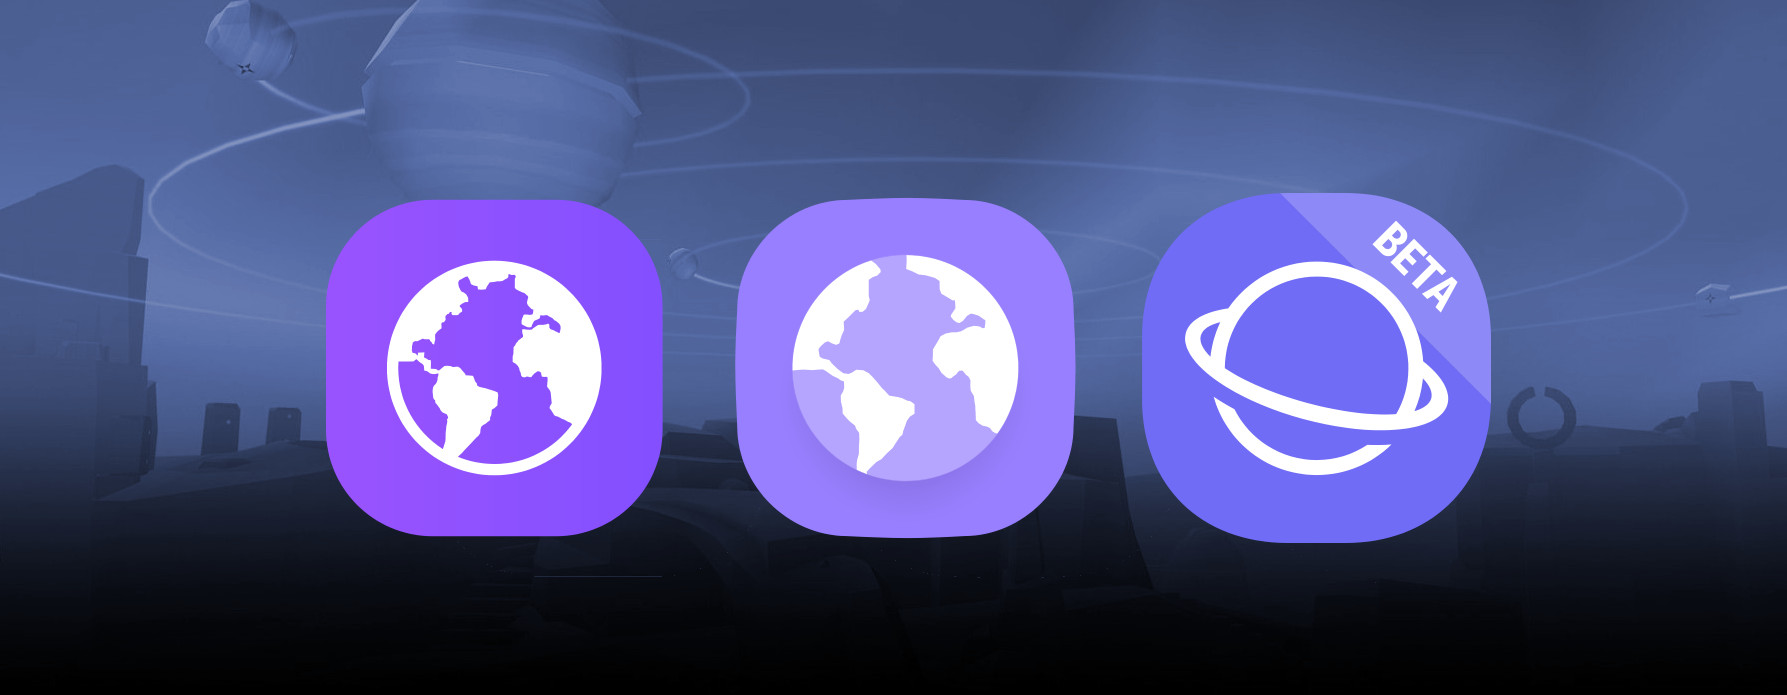
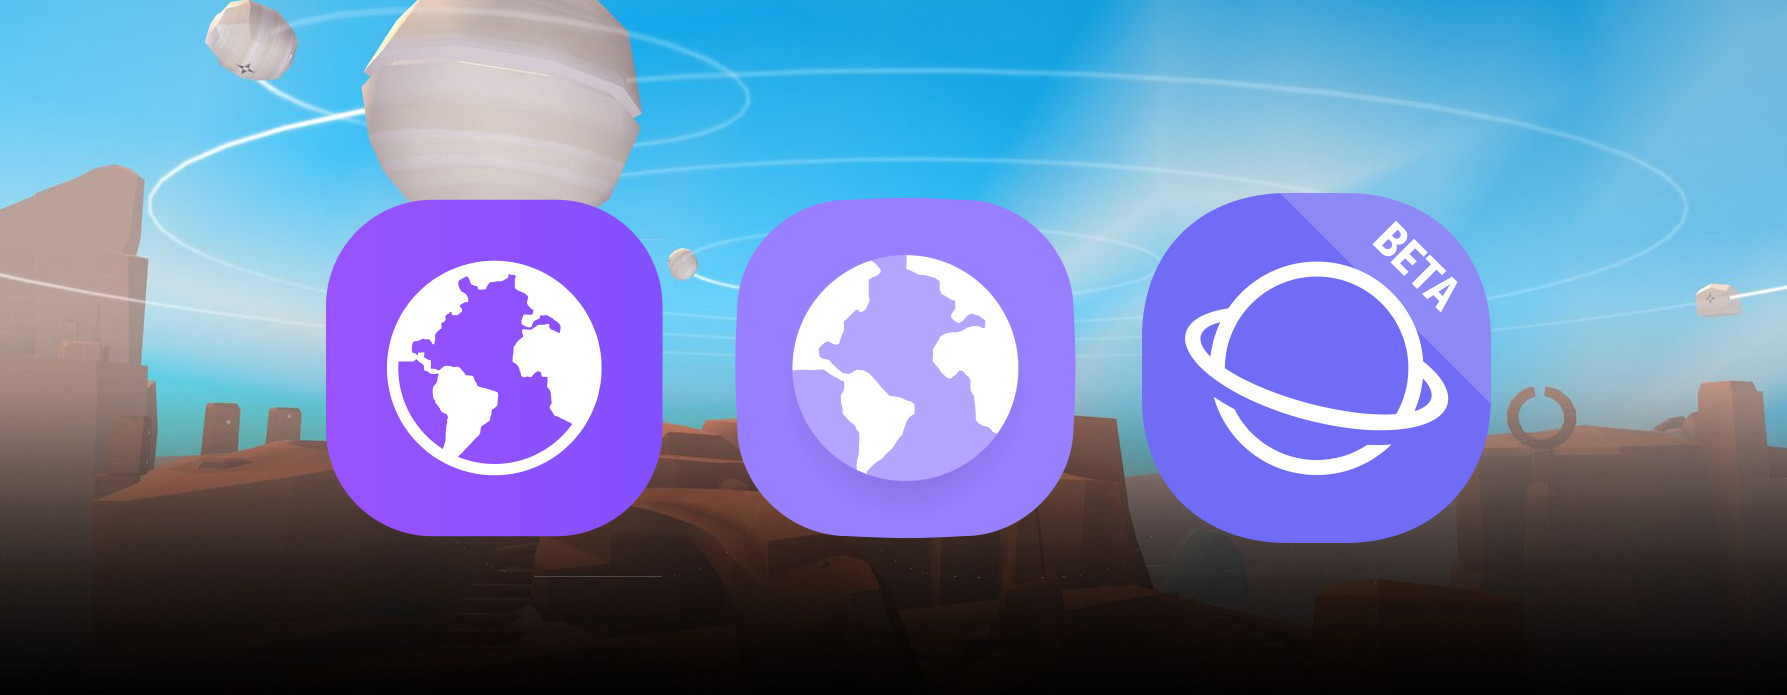
Change header image again

diff --git a/_posts/2017-03-07-samsung-internet-beta-open.md b/_posts/2017-03-07-samsung-internet-beta-open.md
@@ -3,7 +3,7 @@ title: "Samsung Internet Beta now available without sign up"
 short_desc: "Samsung Internet no longer Samsung Exclusive!"
 long_desc: "We have received many requests for Samsung Internet to become available on non Samsung Phones and Tablets. Well today we are announcing a new Beta..."
 author: Ada Rose Edwards
-image: /images/header-images/browser-landscape-turquoise.jpg
+image: /images/header-images/browser-landscape-desaturated.jpg
 link: https://medium.com/samsung-internet-dev/samsung-internet-beta-now-available-without-sign-up-e0d5d4010838
 external: medium.com
 ---
